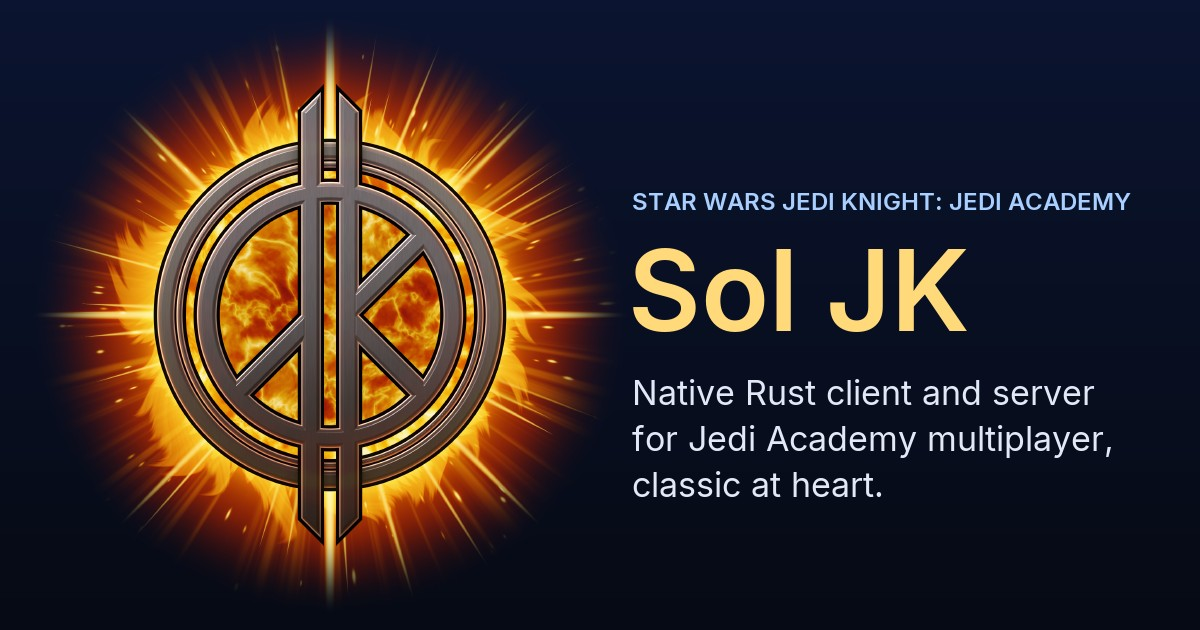
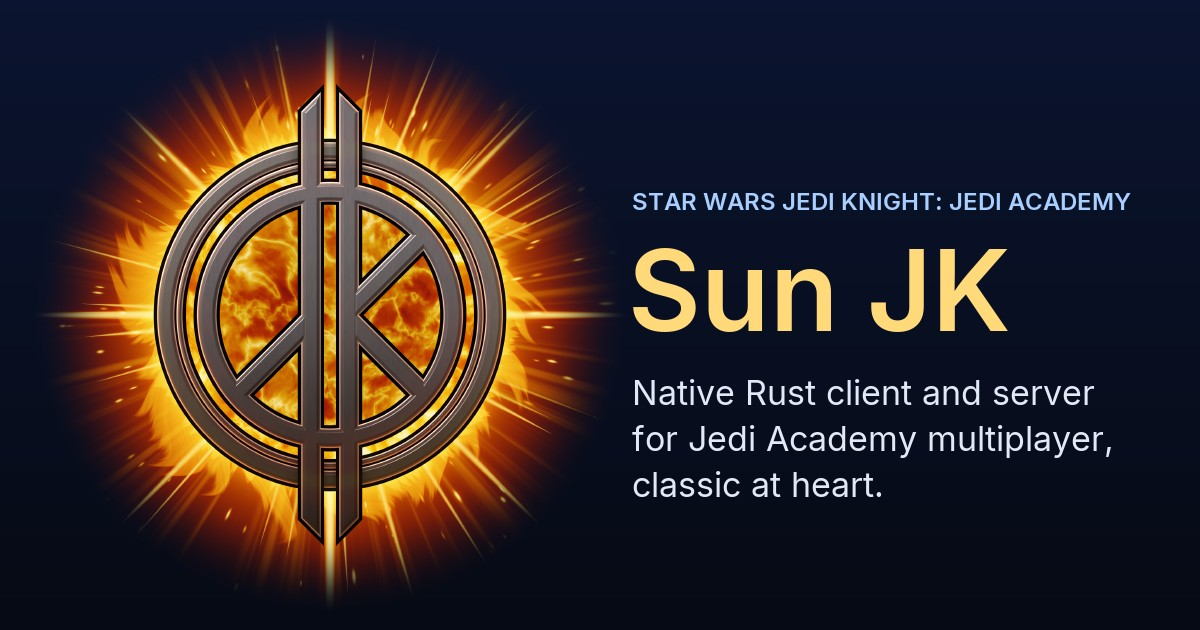
Sol JK is now Sun JK: the name players and visitors read
Sol's announcement (19/11/2026), visible text only: the SJK UI home and
welcome card, the classic title, the credits, the Discord presence text, the
startup lines, the release titles, README, NOTICE, CREDITS.md, the site and its
social card, the docs. The exe, crates, cvars, paths, repo, hub and the short
name SJK stay. A refused DOOM coin roll now speaks of the Force box
(wheel_of_doom::box_refusal).

Changed region(s): [[0.5858, 0.3921, 0.8325, 0.5429]]

diff --git a/site/index.html b/site/index.html
@@ -3,22 +3,22 @@
 <head>
 <meta charset="utf-8">
 <meta name="viewport" content="width=device-width, initial-scale=1">
-<title>Sol JK — Jedi Academy multiplayer, classic at heart</title>
-<meta name="description" content="Sol JK (SJK) is Sol's vision of Jedi Academy: a native client and server for Star Wars Jedi Knight: Jedi Academy multiplayer, with its own SJK UI, the classic menus and HUDs, and JA+ and JoF support, and the SJK Launcher that installs and updates it. For Windows, Linux and, experimentally, Mac.">
+<title>Sun JK — Jedi Academy multiplayer, classic at heart</title>
+<meta name="description" content="Sun JK (SJK) is Sol's vision of Jedi Academy: a native client and server for Star Wars Jedi Knight: Jedi Academy multiplayer, with its own SJK UI, the classic menus and HUDs, and JA+ and JoF support, and the SJK Launcher that installs and updates it. For Windows, Linux and, experimentally, Mac.">
 <meta name="theme-color" content="#060a14">
-<meta property="og:title" content="Sol JK">
+<meta property="og:title" content="Sun JK">
 <meta property="og:description" content="A native client and server for Jedi Academy multiplayer, classic at heart.">
 <meta property="og:type" content="website">
 <meta property="og:url" content="https://sol-vulpes.github.io/SJK/">
 <meta property="og:image" content="https://sol-vulpes.github.io/SJK/assets/social-preview.jpg">
 <meta property="og:image:width" content="1200">
 <meta property="og:image:height" content="630">
-<meta property="og:image:alt" content="The Sol JK emblem, a gold starburst with the JK blade, beside the name Sol JK">
+<meta property="og:image:alt" content="The Sun JK emblem, a gold starburst with the JK blade, beside the name Sun JK">
 <meta name="twitter:card" content="summary_large_image">
-<meta name="twitter:title" content="Sol JK">
+<meta name="twitter:title" content="Sun JK">
 <meta name="twitter:description" content="A native client and server for Jedi Academy multiplayer, classic at heart.">
 <meta name="twitter:image" content="https://sol-vulpes.github.io/SJK/assets/social-preview.jpg">
-<meta name="twitter:image:alt" content="The Sol JK emblem, a gold starburst with the JK blade, beside the name Sol JK">
+<meta name="twitter:image:alt" content="The Sun JK emblem, a gold starburst with the JK blade, beside the name Sun JK">
 <link rel="icon" href="assets/favicon.ico" sizes="16x16 32x32 48x48">
 <link rel="icon" href="assets/favicon-32.png" type="image/png" sizes="32x32">
 <link rel="apple-touch-icon" href="assets/apple-touch-icon.png">
@@ -37,7 +37,7 @@
 <a class="skip" href="#main">Skip to content</a>
 
 <nav class="nav over-home" aria-label="Sections">
-  <a class="nav-brand" href="#top"><img src="assets/favicon-32.png" alt="" width="24" height="24"> Sol JK</a>
+  <a class="nav-brand" href="#top"><img src="assets/favicon-32.png" alt="" width="24" height="24"> Sun JK</a>
   <ul>
     <li><a href="#features">What SJK brings</a></li>
     <li><a href="#launcher">Launcher</a></li>
@@ -71,7 +71,7 @@
 
     <div class="intro">
       <p class="eyebrow">Star Wars Jedi Knight: Jedi Academy multiplayer</p>
-      <h1>Sol JK</h1>
+      <h1>Sun JK</h1>
       <p class="lede">Sol's vision of Jedi Academy: a native client and server, classic at
       heart. Its own menus over the live map, the retail menus one switch away, JA+ and JoF
       servers that feel right, and a game that stays sharp on today's screens.</p>
@@ -86,7 +86,7 @@
         </div>
       </div>
       <p class="get-launcher"><a class="button" href="#launcher">SJK Launcher</a>
-      <span>New: installs Sol JK, keeps it up to date and starts it, in one window.</span></p>
+      <span>New: installs Sun JK, keeps it up to date and starts it, in one window.</span></p>
       <p class="fine">Free and open source. Needs your own copy of Jedi Academy: SJK ships no game files.</p>
     </div>
   </div>
@@ -94,7 +94,7 @@
   <aside class="recent" aria-labelledby="recent-title">
     <div class="recent-head">
       <h2 id="recent-title">Latest release</h2>
-      <p class="recent-name" id="release-name"><a href="https://github.com/Sol-Vulpes/SJK/releases/latest">Sol JK (Alpha)</a></p>
+      <p class="recent-name" id="release-name"><a href="https://github.com/Sol-Vulpes/SJK/releases/latest">Sun JK (Alpha)</a></p>
       <p class="recent-date" id="release-date"></p>
     </div>
     <ul class="recap" id="release-recap">
@@ -256,7 +256,7 @@
   <div class="launcher">
     <div class="launcher-text">
       <p class="launcher-lede">A small program that sits beside the game. It finds Jedi
-      Academy in your Steam libraries, installs Sol JK into it in one click, starts it with
+      Academy in your Steam libraries, installs Sun JK into it in one click, starts it with
       the big Play button, and brings every new release by itself. It also keeps your
       maps and mods in order, and helps when the game won't start.</p>
       <div class="get">
@@ -274,14 +274,14 @@
       Free and open source: <a href="https://github.com/Sol-Vulpes/sjk-launcher">Sol-Vulpes/sjk-launcher</a>.</p>
     </div>
     <figure class="detail launcher-frame">
-      <img id="launcher-shot" src="screenshots/launcher-home.jpg" alt="The SJK Launcher's Sol JK page: the version you play, up to date, the emblem and the Play button" width="1800" height="1140" decoding="async" loading="lazy">
+      <img id="launcher-shot" src="screenshots/launcher-home.jpg" alt="The SJK Launcher's Sun JK page: the version you play, up to date, the emblem and the Play button" width="1800" height="1140" decoding="async" loading="lazy">
       <figcaption id="launcher-caption"><strong>Install, update, play</strong>The version you play and the newest one, any older release a click away, and the release notes.</figcaption>
     </figure>
   </div>
 
   <ul class="launcher-shots">
     <li><a href="screenshots/launcher-home.jpg" data-launcher-shot="The version you play and the newest one, any older release a click away, and the release notes." aria-current="true">
-      <img src="screenshots/launcher-home.jpg" alt="The SJK Launcher's Sol JK page" width="1800" height="1140" loading="lazy" decoding="async">
+      <img src="screenshots/launcher-home.jpg" alt="The SJK Launcher's Sun JK page" width="1800" height="1140" loading="lazy" decoding="async">
       <strong>Install, update, play</strong><span>Archives checked against GitHub's checksums before they are extracted.</span></a></li>
     <li><a href="screenshots/launcher-content.jpg" data-launcher-shot="JoF's maps, skins, hilts and packs, and the Sith cloud's, chosen group by group and kept up to date." aria-current="false">
       <img src="screenshots/launcher-content.jpg" alt="The launcher's Content tab: JoF's map, skin, hilt and asset packs" width="1800" height="1140" loading="lazy" decoding="async">
@@ -289,7 +289,7 @@
     <li><a href="screenshots/launcher-pk3s.jpg" data-launcher-shot="Every PK3 in GameData, searched by name and by the files inside; what each holds, its safety scan, and what it replaces." aria-current="false">
       <img src="screenshots/launcher-pk3s.jpg" alt="The launcher's PK3s tab, Jedi Academy's assets1.pk3 opened beside the list" width="1800" height="1140" loading="lazy" decoding="async">
       <strong>PK3s</strong><span>Find, scan, turn off or remove any PK3, or single files inside one.</span></a></li>
-    <li><a href="screenshots/launcher-doctor.jpg" data-launcher-shot="What usually stops Sol JK from starting, checked on your PC, with fixes where the launcher can make them, and Send my logs to the SJK team." aria-current="false">
+    <li><a href="screenshots/launcher-doctor.jpg" data-launcher-shot="What usually stops Sun JK from starting, checked on your PC, with fixes where the launcher can make them, and Send my logs to the SJK team." aria-current="false">
       <img src="screenshots/launcher-doctor.jpg" alt="The launcher's Doctor: every check passed, the graphics choice and the settings reset" width="1800" height="1140" loading="lazy" decoding="async">
       <strong>Doctor</strong><span>Checks and fixes what stops the game from starting, and sends your logs if you ask.</span></a></li>
     <li><a href="screenshots/launcher-tools.jpg" data-launcher-shot="SJK's folders and files a click away, a backup of your SJK setup to keep or move to another PC, and Steam's file check." aria-current="false">
@@ -298,7 +298,7 @@
   </ul>
 
   <ul class="rows launcher-more">
-    <li><strong>JoF EternalJK too</strong><span>Installs, updates and starts JoF's EternalJK client beside Sol JK.</span></li>
+    <li><strong>JoF EternalJK too</strong><span>Installs, updates and starts JoF's EternalJK client beside Sun JK.</span></li>
     <li><strong>SJK chat</strong><span>SJK's chat in a window of its own, as the same player you are in the game.</span></li>
     <li><strong>Crashes and freezes</strong><span>When the game goes down or stops answering, the launcher says why in plain words and makes sure the SJK team gets the report.</span></li>
     <li><strong>Quietly up to date</strong><span>Waits in the tray, can start with your computer, installs new versions while the game is closed, and updates itself.</span></li>
@@ -398,9 +398,9 @@
   <!-- One platform at a time once the script runs (the visitor's, guessed), all three
        without it. -->
   <p class="install-launcher"><strong>Easiest: the SJK Launcher.</strong> Download it, start
-  it and press Install: it finds the game, puts Sol JK in place and keeps it up to date.
+  it and press Install: it finds the game, puts Sun JK in place and keeps it up to date.
   <a href="#launcher">Get the launcher</a></p>
-  <p class="install-by-hand">Or install Sol JK by hand:</p>
+  <p class="install-by-hand">Or install Sun JK by hand:</p>
   <div class="platforms" data-platforms>
     <div class="platform-pick" role="group" aria-label="Platform" hidden>
       <button type="button" class="button" data-platform="windows-x64" aria-pressed="true">Windows</button>
@@ -533,7 +533,7 @@
 </main>
 
 <footer class="footer">
-  <p>Sol JK · <a href="https://github.com/Sol-Vulpes/SJK">Sol-Vulpes/SJK</a></p>
+  <p>Sun JK · <a href="https://github.com/Sol-Vulpes/SJK">Sol-Vulpes/SJK</a></p>
   <p>Visits are counted with <a href="https://www.goatcounter.com">GoatCounter</a>, without cookies or personal data.</p>
 </footer>
 </body>

diff --git a/site/assets/site.js b/site/assets/site.js
@@ -1,4 +1,4 @@
-// Sol JK site enhancements. The page works without this script: the download
+// Sun JK site enhancements. The page works without this script: the download
 // button points at the latest release page, What's new links to the changelog,
 // Install lists every platform and the credits link each contributor's pull requests.
 "use strict";
@@ -120,7 +120,7 @@ function enhanceDownload(release, platform) {
   const label = document.getElementById("download-label");
   if (label) label.textContent = asset ? `Download for ${PLATFORMS[platform].system}` : "Download";
   const line = document.getElementById("download-line");
-  if (line) line.textContent = asset ? `Sol JK ${version} · ${PLATFORMS[platform].label}` : `Sol JK ${version}`;
+  if (line) line.textContent = asset ? `Sun JK ${version} · ${PLATFORMS[platform].label}` : `Sun JK ${version}`;
   const others = document.getElementById("download-others");
   if (others) {
     const links = Object.keys(PLATFORMS)

diff --git a/site/assets/effects.js b/site/assets/effects.js
@@ -1,4 +1,4 @@
-// Sol JK site: WebGPU effects from the MIT-licensed Shaders library
+// Sun JK site: WebGPU effects from the MIT-licensed Shaders library
 // (https://github.com/shader-effects-inc/shaders, vendored as
 // vendor/shaders/shaders-4.0.0.js so no third-party server is contacted, with its
 // telemetry off). The home page gets drifting dust and a lightsaber trail that

diff --git a/site/assets/style.css b/site/assets/style.css
@@ -1,4 +1,4 @@
-/* Sol JK site, in the SJK UI's look (docs/sjk-ui.md): content floats on the
+/* Sun JK site, in the SJK UI's look (docs/sjk-ui.md): content floats on the
    world with no boxes or frames, gold marks what is chosen, holo blue draws the
    line-work, words in sentence case, Rajdhani for display and Exo 2 for text. */
 :root {

diff --git a/crates/sjk-identity/src/wheel_of_doom.rs b/crates/sjk-identity/src/wheel_of_doom.rs
@@ -161,6 +161,42 @@ pub struct Refused {
     pub left: Option<u64>,
 }
 
+/// A refused DOOM coin roll at a Force box (`POST /v1/mystery-box/doom`, which answers
+/// the wheel's codes) in the player's words, with the cooldown's seconds left.
+pub fn box_refusal(error: &HubError) -> Refused {
+    let HubError::Rejected { code, message, .. } = error else {
+        return refusal(error);
+    };
+    let seconds = message
+        .split(|c: char| !c.is_ascii_digit())
+        .rfind(|digits| !digits.is_empty())
+        .and_then(|digits| digits.parse::<u64>().ok());
+    let (words, left) = match (code.as_str(), seconds) {
+        ("wheel_busy", Some(left)) => (
+            format!("Someone is rolling a DOOM coin at this Force box: {left} s left"),
+            None,
+        ),
+        ("wheel_cooldown", Some(left)) => {
+            (format!("Your next DOOM coin roll in {left} s"), Some(left))
+        }
+        ("wheel_busy", None) => (
+            "Someone is rolling a DOOM coin at this Force box.".to_owned(),
+            None,
+        ),
+        ("wheel_cooldown", None) => ("Roll your next DOOM coin a little later.".to_owned(), None),
+        ("no_doom_coin", _) => (
+            "No DOOM coin: the teddy bear in a Force box brings one.".to_owned(),
+            None,
+        ),
+        ("wheel_off", _) => ("DOOM coin rolls are off for now.".to_owned(), None),
+        ("no_such_box", _) => ("That Force box is not here any more.".to_owned(), None),
+        ("box_server", _) => ("Force boxes do not open on this server.".to_owned(), None),
+        ("client_update_required", _) => ("Update SJK to roll a DOOM coin.".to_owned(), None),
+        _ => return refusal(error),
+    };
+    Refused { words, left }
+}
+
 /// A refused spin in the player's words, with the cooldown's seconds left when it says.
 pub fn refusal(error: &HubError) -> Refused {
     let left = match error {
@@ -349,5 +385,29 @@ mod tests {
         .unwrap();
         assert_eq!((doom.box_id, doom.coins), (4, Some(1)));
         assert_eq!(doom.holocron.unwrap().tier, "rare");
+    }
+
+    #[test]
+    fn a_refused_coin_roll_speaks_of_the_force_box() {
+        let rejected = |code: &str, message: &str| HubError::Rejected {
+            status: 409,
+            code: code.to_owned(),
+            message: message.to_owned(),
+        };
+        let busy = box_refusal(&rejected("wheel_busy", "busy for 4 s"));
+        assert_eq!(
+            busy.words,
+            "Someone is rolling a DOOM coin at this Force box: 4 s left"
+        );
+        assert_eq!(busy.left, None);
+        let wait = box_refusal(&rejected("wheel_cooldown", "again in 9 s"));
+        assert_eq!(
+            (wait.words.as_str(), wait.left),
+            ("Your next DOOM coin roll in 9 s", Some(9))
+        );
+        for code in ["no_doom_coin", "wheel_off", "no_such_box", "box_server"] {
+            let words = box_refusal(&rejected(code, "")).words;
+            assert!(!words.contains("WHEEL"), "{code}: {words}");
+        }
     }
 }

diff --git a/crates/sjk-viewer/src/alpha_notice_card.rs b/crates/sjk-viewer/src/alpha_notice_card.rs
@@ -63,7 +63,7 @@ const KEYS_RIGHT: f32 = 1824.0;
 
 /// What the card says above the report row.
 const PARAGRAPHS: [&str; 2] = [
-    "This is an alpha build of Sol JK, a free and open-source Jedi Academy client. Expect \
+    "This is an alpha build of Sun JK, a free and open-source Jedi Academy client. Expect \
      bugs, and parts that are not finished yet. Some collectibles show in the game but \
      cannot be unlocked yet: they are a work in progress, so there is no need to ask Sol \
      about them.",
@@ -259,7 +259,7 @@ impl Card {
         text(
             ui,
             TextFamily::Display,
-            format_args!("Welcome to Sol JK"),
+            format_args!("Welcome to Sun JK"),
             frame.rect(TEXT_X, top + 66.0, TEXT_WIDTH, 48.0),
             36.0 * s,
             color::text(),

diff --git a/crates/sjk-viewer/src/discord_presence.rs b/crates/sjk-viewer/src/discord_presence.rs
@@ -20,7 +20,7 @@ use std::time::{SystemTime, UNIX_EPOCH};
 /// 0 off, 1 on, 2 on without the server's name.
 pub(crate) const CVAR: &str = "cl_discordPresence";
 
-/// The "Sol JK" application in Discord's developer portal: its name is the game
+/// The "Sun JK" application in Discord's developer portal: its name is the game
 /// name Discord shows. Not a secret; every Rich Presence client carries its id.
 const APPLICATION_ID: &str = "1561491096062922803";
 
@@ -222,7 +222,7 @@ fn timer_key(place: &Place) -> String {
 fn activity(place: &Place, start: Option<u64>) -> Activity {
     let mut activity = Activity {
         large_image: LOGO.into(),
-        large_text: "Sol JK".into(),
+        large_text: "Sun JK".into(),
         start,
         buttons: vec![ActivityButton {
             label: "Get SJK".into(),

diff --git a/scripts/sjk_emblem.py b/scripts/sjk_emblem.py
@@ -765,7 +765,7 @@ def social_preview(font_dir):
     small = ImageFont.truetype(str(font_dir / "Inter-SemiBold.ttf"), 24)
     left = 64 + 520 + 48
     draw.text((left, 186), "STAR WARS JEDI KNIGHT: JEDI ACADEMY", font=small, fill=(168, 207, 255))
-    draw.text((left - 4, 222), "Sol JK", font=semibold, fill=(255, 217, 122))
+    draw.text((left - 4, 222), "Sun JK", font=semibold, fill=(255, 217, 122))
     lines = ("Native Rust client and server", "for Jedi Academy multiplayer,", "classic at heart.")
     for row, line in enumerate(lines):
         draw.text((left, 372 + row * 46), line, font=regular, fill=(226, 233, 246))

diff --git a/crates/sjk-viewer/src/menu/sjk/home.rs b/crates/sjk-viewer/src/menu/sjk/home.rs
@@ -1058,7 +1058,7 @@ fn launcher(canvas: &mut MenuCanvas, frame: &Frame) {
     let hint = if canvas.token_hovered(HIDE_LAUNCHER_TOKEN) {
         "Hides it for good: Settings > Interface > SJK Launcher notice brings it back"
     } else {
-        "It installs and updates Sol JK for you, and helps when the game won't start"
+        "It installs and updates Sun JK for you, and helps when the game won't start"
     };
     text(
         canvas,

diff --git a/crates/sjk-viewer/src/menu/classic/layout.rs b/crates/sjk-viewer/src/menu/classic/layout.rs
@@ -204,7 +204,7 @@ impl Page {
             Self::Play => ("START PLAYING", 172.0),
             Self::Controls => ("KEY BINDINGS", 172.0),
             Self::Setup => ("OPTIONS", 172.0),
-            Self::Sjk => ("SOL JK", 172.0),
+            Self::Sjk => ("SUN JK", 172.0),
             Self::Graphics => ("GRAPHICS", 172.0),
             Self::Gameplay => ("GAMEPLAY", 172.0),
             Self::Quit => ("QUIT", 172.0),

diff --git a/crates/sjk-viewer/src/discord_ipc.rs b/crates/sjk-viewer/src/discord_ipc.rs
@@ -402,7 +402,7 @@ mod tests {
             state: "ffa3 · FFA".into(),
             party: Some((3, 32)),
             large_image: "https://sol-vulpes.github.io/SJK/assets/sjk-logo-512.png".into(),
-            large_text: "Sol JK".into(),
+            large_text: "Sun JK".into(),
             start: Some(1_760_000_000),
             buttons: vec![ActivityButton {
                 label: "Get SJK".into(),

diff --git a/crates/sjk-identity/src/service.rs b/crates/sjk-identity/src/service.rs
@@ -3843,7 +3843,7 @@ impl Worker {
                     snapshot.set_me(answer.profile);
                     Ok(answer.doom)
                 }
-                Err(error) => Err(crate::wheel_of_doom::refusal(&error)),
+                Err(error) => Err(crate::wheel_of_doom::box_refusal(&error)),
             };
             snapshot.mystery_box_doom = Some((serial, outcome));
         });
